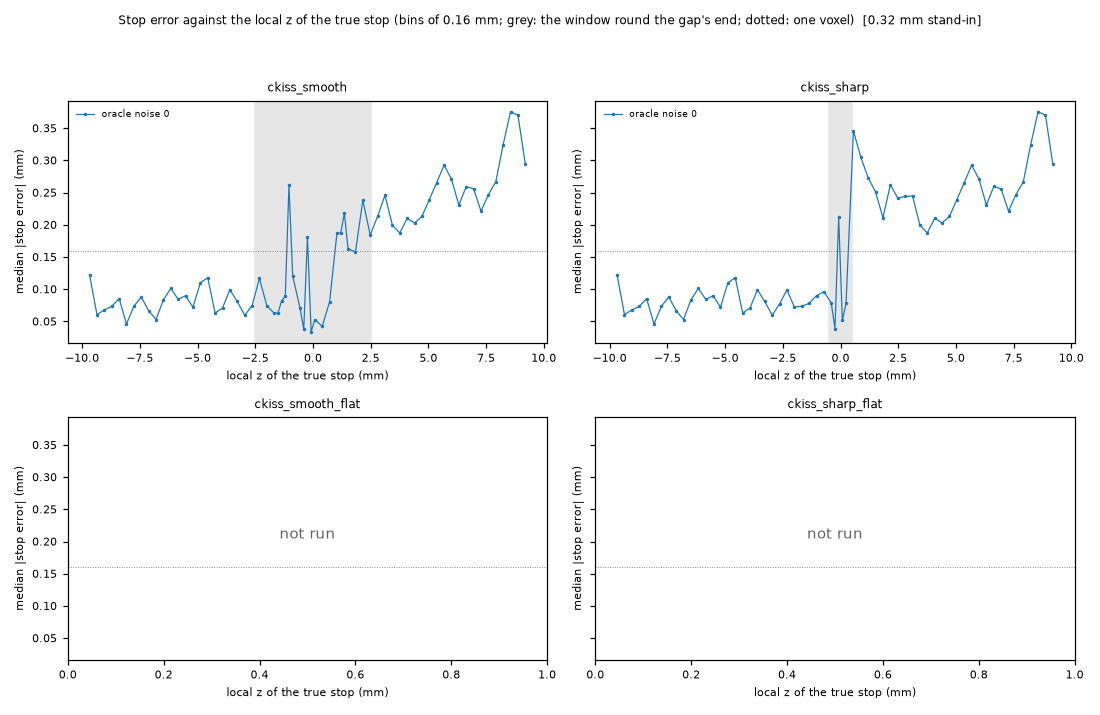
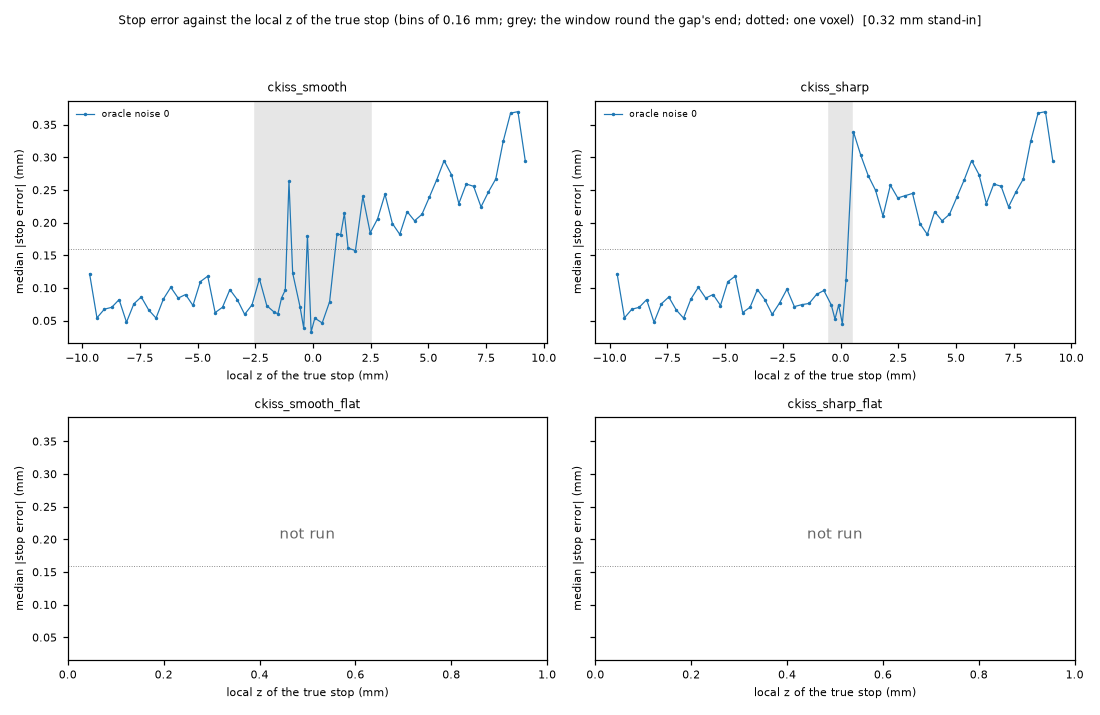
docs(ff): kissing surfaces re-measured from the roots (PR 4)

diff --git a/reports/Flow-field phantoms.md b/reports/Flow-field phantoms.md
@@ -40,6 +40,8 @@ Table 1. The PR 4 matrix and the state of each run (0.32 mm stand-in stage).
 - The solver uses the plan's schedule: widths 4, 2, 1, at most 200 sweeps for each width.
   No setting was changed. The re-centring option of CD-13 is off. The contrast term uses
   one profile line per direction (CD-7).
+- The columns start at the roots (the plan's rule). The stand-ins were re-measured from
+  their saved fields after PR 3's fix 88bc488. No new solve was made.
 - The views and numbers come from `prototypes/scripts/ff_kiss_views.py`.
 
 Table 2. Cost and inference (0.32 mm stand-in). Each run has 156,065 nodes.
@@ -69,12 +71,12 @@ the true stop.
 
 | run | bank | abs stop error (mm) | signed stop error (mm) | stopped / ended at an unresolved cell | own side of the slot plane |
 |---|---|---|---|---|---|
-| ckiss_smooth top | A | 0.272 / 0.431 / 0.552 | −0.272 / −0.133 / 0.077 | 445 / 25 | 1.000 |
-| ckiss_smooth top | B | 0.170 / 0.292 / 0.478 | −0.170 / −0.061 / 0.118 | 576 / 47 | 0.998 |
-| ckiss_sharp top | A | 0.290 / 0.459 / 0.584 | −0.290 / −0.142 / 0.179 | 548 / 22 | 1.000 |
-| ckiss_sharp top | B | 0.178 / 0.325 / 0.510 | −0.178 / −0.051 / 0.170 | 630 / 19 | 0.998 |
-| ckiss_smooth shiftB | A | 0.292 / 0.437 / 0.552 | −0.292 / −0.169 / 0.030 | 429 / 41 | 1.000 |
-| ckiss_smooth shiftB | B | 0.121 / 0.214 / 0.390 | −0.121 / −0.029 / 0.075 | 563 / 60 | 0.991 |
+| ckiss_smooth top | A | 0.272 / 0.431 / 0.553 | −0.272 / −0.133 / 0.074 | 445 / 25 | 1.000 |
+| ckiss_smooth top | B | 0.170 / 0.293 / 0.483 | −0.170 / −0.060 / 0.121 | 577 / 46 | 0.998 |
+| ckiss_sharp top | A | 0.290 / 0.459 / 0.588 | −0.290 / −0.142 / 0.165 | 548 / 22 | 1.000 |
+| ckiss_sharp top | B | 0.181 / 0.325 / 0.505 | −0.181 / −0.065 / 0.029 | 629 / 20 | 0.998 |
+| ckiss_smooth shiftB | A | 0.292 / 0.437 / 0.552 | −0.292 / −0.169 / 0.028 | 429 / 41 | 1.000 |
+| ckiss_smooth shiftB | B | 0.123 / 0.215 / 0.391 | −0.123 / −0.030 / 0.075 | 561 / 62 | 0.991 |
 
 - The CONTACT stops are early. The median error is 0.12–0.29 mm. Bank A has the larger
   error. At the open pia (PIA) the median error is 0.08–0.09 mm.
@@ -98,9 +100,9 @@ stand-in.
 
 | run | open part | window | fused part | unresolved cells: window / elsewhere | moving cortex nodes: window / elsewhere |
 |---|---|---|---|---|---|
-| ckiss_smooth top | 0.078 / 0.161 / 0.240 | 0.114 / 0.238 / 0.425 | 0.238 / 0.428 / 0.584 | 139 / 135 | 6056 / 19334 |
-| ckiss_sharp top | 0.079 / 0.160 / 0.240 | 0.100 / 0.307 / 0.577 | 0.253 / 0.434 / 0.584 | 9 / 156 | 1165 / 24027 |
-| ckiss_smooth shiftB | 0.082 / 0.164 / 0.392 | 0.093 / 0.198 / 0.359 | 0.208 / 0.405 / 0.552 | 154 / 170 | 6105 / 19436 |
+| ckiss_smooth top | 0.078 / 0.161 / 0.240 | 0.115 / 0.238 / 0.425 | 0.236 / 0.428 / 0.602 | 139 / 135 | 6056 / 19334 |
+| ckiss_sharp top | 0.079 / 0.161 / 0.240 | 0.079 / 0.169 / 0.331 | 0.252 / 0.432 / 0.602 | 9 / 156 | 1165 / 24027 |
+| ckiss_smooth shiftB | 0.082 / 0.165 / 0.391 | 0.094 / 0.194 / 0.358 | 0.207 / 0.403 / 0.552 | 154 / 170 | 6105 / 19436 |
 
 - The stop error is small in the open part and larger in the fused part. In the fused
   part the error increases with z (figure).
@@ -148,18 +150,20 @@ max).
 
 | run | bank | solved speed | true speed | solved / true | τ arrival at CONTACT (true 0) |
 |---|---|---|---|---|---|
-| ckiss_smooth top | A | 1.04 / 1.09 / 1.80 | 1.35 (all nodes) | 0.771 / 0.839 / 1.33 | −0.561 / −0.419 / −0.131 |
-| ckiss_smooth top | B | 1.06 / 1.18 / 1.66 | 0.649 / 0.679 / 0.989 | 1.61 / 1.80 / 2.56 | −0.511 / −0.398 / −0.108 |
-| ckiss_sharp top | A | 1.04 / 1.11 / 1.86 | 1.35 (all nodes) | 0.774 / 0.854 / 5.00 | −0.572 / −0.434 / −0.021 |
-| ckiss_sharp top | B | 1.07 / 1.19 / 1.77 | 0.649 / 0.680 / 0.989 | 1.62 / 1.83 / 8.76 | −0.523 / −0.401 / −0.080 |
+| ckiss_smooth top | A | 1.04 / 1.09 / 1.80 | 1.35 (all nodes) | 0.771 / 0.839 / 1.33 | −0.559 / −0.418 / −0.128 |
+| ckiss_smooth top | B | 1.06 / 1.18 / 1.66 | 0.649 / 0.679 / 0.989 | 1.61 / 1.80 / 2.56 | −0.511 / −0.396 / −0.105 |
+| ckiss_sharp top | A | 1.04 / 1.11 / 1.86 | 1.35 (all nodes) | 0.774 / 0.854 / 5.00 | −0.573 / −0.435 / −0.021 |
+| ckiss_sharp top | B | 1.07 / 1.19 / 1.77 | 0.649 / 0.680 / 0.989 | 1.62 / 1.83 / 8.76 | −0.526 / −0.414 / −0.008 |
 
 - The solved speed is about 1.05 in both banks. The solved bank ratio A/B is 0.98 (run.json:
   0.983 smooth, 0.975 sharp), against 2.08.
 - One possible cause is the speed prior: log v near 0, SD 0.3. log 2.08 = 0.73, about
   2.4 SD. The prior was not changed.
 - The levels: in bank A the median signed deviation is near 0 at φ = 0.1–0.3 and 0.06–0.46
-  mm at φ = 0.4–0.9. In bank B the levels are deep: −1.2 mm at φ = 0.1, −0.87 mm at
-  φ = 0.3, −0.08 to −0.30 mm at φ = 0.4–0.9. Both runs give these values.
+  mm at φ = 0.4–0.9. In bank B the levels are deep: −0.24 to −0.31 mm at φ = 0.2–0.5 and
+  −0.08 to −0.18 mm at φ = 0.6–0.9. No bank-B column has a level at φ = 0.1. Both runs
+  give these values. The abs level deviation in bank B is 0.19 / 0.32–0.33 / 0.60–0.69 mm
+  (median / p90 / max).
 
 **At 0.16 mm.** Look for the same speed ratio. A ratio near 1 at 0.16 mm also points at
 the speed prior, not at the grid.
@@ -215,10 +219,10 @@ Evidence for every row: 0.32 mm stand-in only; 0.16 mm pending. R8–R10 are not
 | # | supports | does not support | failure signature (plan) seen |
 |---|---|---|---|
 | R1 stop as a node state | stops on the own side of the slot plane (≥ 0.991); no cortex node stopped at the open slot | CONTACT stops early by 0.12–0.29 mm (median); PIA 0.08–0.09 mm | not decided: the stop error and the sheet are at the scale of the spacing; no image run |
-| R2 speed to zero at the stop, τ jumps to τ_top | — | the integrator's jump −τ_arrival is positive at 2669 of 2670 stops (smooth; median 0.32), 2992 of 2992 (sharp), also at the pia | seen, with a caveat: τ at the q_stop = 0.5 crossing comes from the last moving nodes, up to one spacing below the stop (masked interpolation). It can measure the integrator, not the solver's jump state. A likely cause is that of CD-12. The provisional change for R2 (#208) failed again; its diagnosis agrees: the column jump is −τ_arrival from the masked interpolation, and the stop boundary sits beyond the pia because of the entropy of the moving candidates |
+| R2 speed to zero at the stop, τ jumps to τ_top | — | the integrator's jump −τ_arrival is positive at all stops: 2672 of 2672 (smooth; median 0.33), 2994 of 2994 (sharp), 2581 of 2581 (shiftB), also at the pia | seen, with a caveat: τ at the q_stop = 0.5 crossing comes from the last moving nodes, up to one spacing below the stop (masked interpolation). It can measure the integrator, not the solver's jump state. A likely cause is that of CD-12. The provisional change for R2 (#208) failed again; its diagnosis agrees: the column jump is −τ_arrival from the masked interpolation, and the stop boundary sits beyond the pia because of the entropy of the moving candidates |
 | R3 jump prior near zero | — | as R2 | seen, with the caveat of R2 |
 | R4 τ_top = 0 as origin | — | — | not decided: Q6 pending |
-| R5 no overlap | overlap 0; contact crossings 0 on the true paths | contact crossings 1, 1, 3, all bank B. Each crossing column starts in bank B's WM far from the fundus (local y 4.2–6.4 mm): not a start effect. Each ends STOPPED 0.000–0.010 mm past the far face of the fused slot (g = 0.02 mm), so it overshoots the contact by less than 1/16 voxel and does not run on into bank A | seen (count above zero), small |
+| R5 no overlap | overlap 0; contact crossings 0 on the true paths | contact crossings 1, 1, 3, all bank B. Each crossing column starts at its root in bank B, far from the fundus (local y 4.2–6.4 mm): not a start effect. Four of the five end STOPPED 0.000–0.010 mm past the far face of the fused slot (g = 0.02 mm): they overshoot the contact by less than 1/16 voxel. The fifth (shiftB) ends STOPPED inside the slot at local z = 0.74 mm, where g = 0.092 mm (the window of the gap's end): 0.024 mm past the slot plane, 0.068 mm before the far face. No crossing column runs on into bank A | seen (count above zero), small |
 | R6 no interpolation across the stop boundary | bank A changes less than bank B | bank A changes when only bank B changes (Table 7) | seen |
 | R7 non-crossing, sinks checked | sinks 0, sink columns 0, focal points 0, overlap 0 | reversed edges 3, 3, 13 (their places against the stop set are not checked here) | not seen for sinks, focal points and overlap at this grid |
 | R11 direction tied to ∇τ | direction against ∇τ: median 1.9–2.5° | — | not seen |
